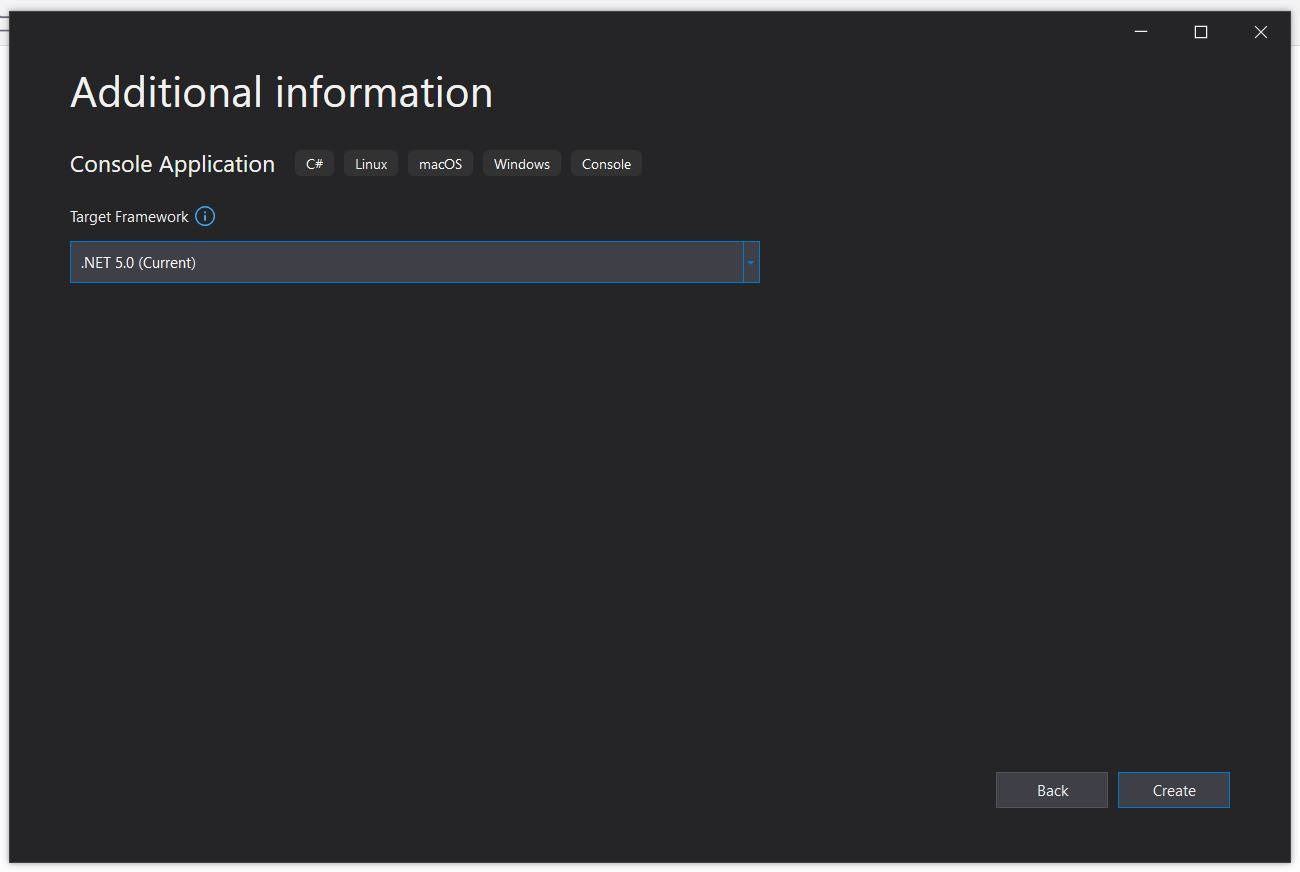
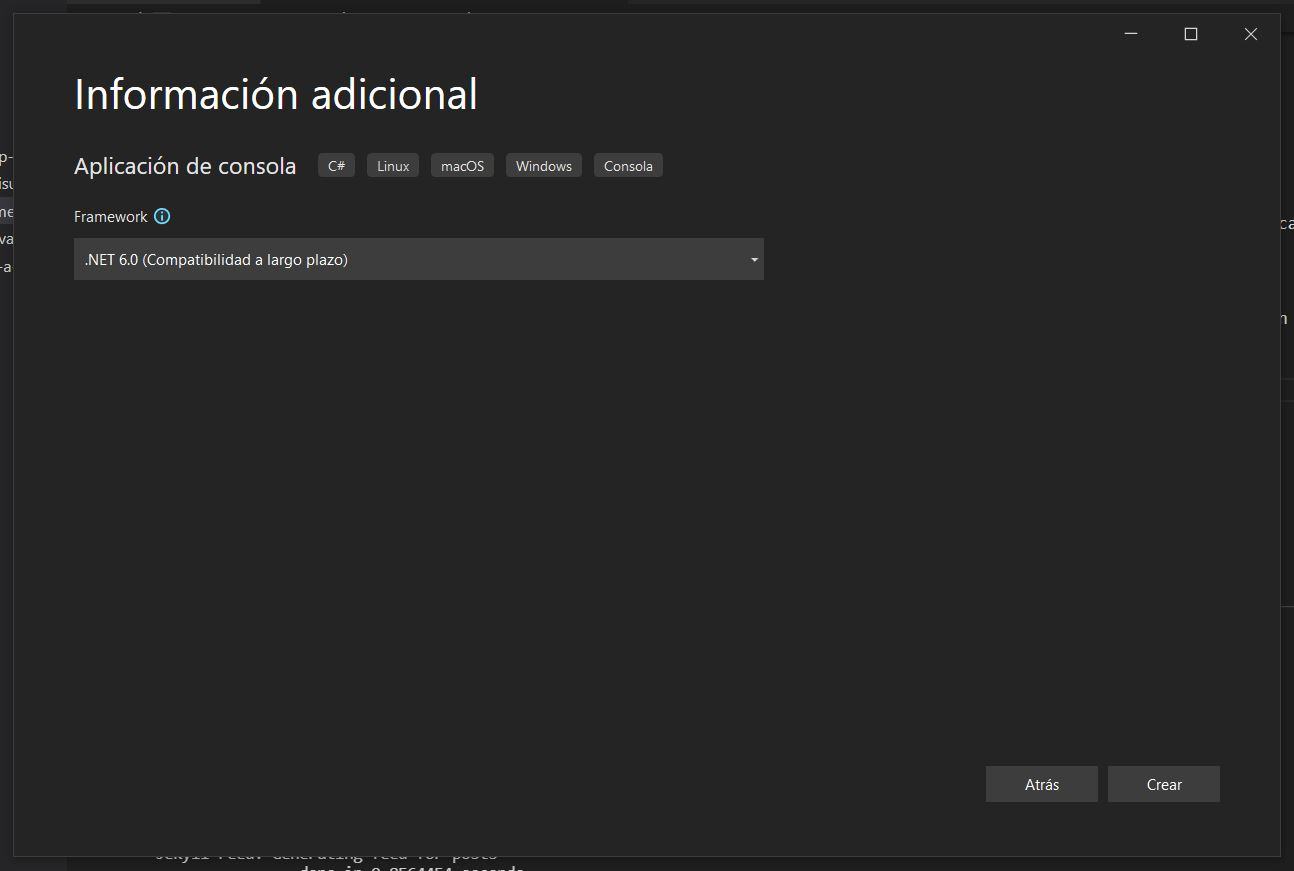
updated some articles

Changed region(s): [[0.0, 0.0, 1.0, 1.0], [0.7728, 0.868, 0.9583, 0.93]]

diff --git a/_posts/2021-06-21-4-aprender-a-saludar.md b/_posts/2021-06-21-4-aprender-a-saludar.md
@@ -10,16 +10,15 @@ Ahora, partiendo del programa que creamos en la **lección 2**, aprenderemos a s
 Este es nuestro código actual.
 
 <iframe
-  src="https://carbon.now.sh/embed?bg=rgba%28171%2C+184%2C+195%2C+1%29&t=seti&wt=none&l=text%2Fx-csharp&ds=true&dsyoff=20px&dsblur=68px&wc=true&wa=true&pv=56px&ph=56px&ln=true&fl=1&fm=Hack&fs=14px&lh=133%25&si=false&es=2x&wm=false&code=class%2520Program%250A%257B%250A%2520%2520%2520%2520static%2520void%2520Main%28string%255B%255D%2520args%29%250A%2520%2520%2520%2520%257B%250A%2520%2520%2520%2520%2520%2520%2520%2520Console.WriteLine%28%2522Hello%2520World%21%2522%29%253B%250A%2520%2520%2520%2520%257D%250A%257D"
-  style="width: 533px; height: 315px; border:0; transform: scale(1); overflow:hidden;"
+  src="https://carbon.now.sh/embed?bg=rgba%28171%2C+184%2C+195%2C+1%29&t=seti&wt=none&l=text%2Fx-csharp&width=680&ds=true&dsyoff=20px&dsblur=68px&wc=true&wa=true&pv=56px&ph=56px&ln=true&fl=1&fm=Hack&fs=14px&lh=133%25&si=false&es=2x&wm=false&code=Console.WriteLine%28%2522Hello%2520World%21%2522%29%253B"
+  style="width: 100%; height: 191px; border:0; transform: scale(1); overflow:hidden;"
   sandbox="allow-scripts allow-same-origin">
 </iframe>
 
 Ahora, modifiquemos el código para que nos salude:
-
 <iframe
-  src="https://carbon.now.sh/embed?bg=rgba%28171%2C+184%2C+195%2C+1%29&t=seti&wt=none&l=text%2Fx-csharp&ds=true&dsyoff=20px&dsblur=68px&wc=true&wa=true&pv=56px&ph=56px&ln=true&fl=1&fm=Hack&fs=14px&lh=133%25&si=false&es=2x&wm=false&code=class%2520Program%250A%257B%250A%2520%2520%2520%2520static%2520void%2520Main%28string%255B%255D%2520args%29%250A%2520%2520%2520%2520%257B%250A%2520%2520%2520%2520%2520%2520%2520%2520Console.WriteLine%28%2522Hello%2520Frank%21%2522%29%253B%250A%2520%2520%2520%2520%257D%250A%257D"
-  style="width: 533px; height: 315px; border:0; transform: scale(1); overflow:hidden;"
+  src="https://carbon.now.sh/embed?bg=rgba%28171%2C+184%2C+195%2C+1%29&t=seti&wt=none&l=text%2Fx-csharp&width=680&ds=true&dsyoff=20px&dsblur=68px&wc=true&wa=true&pv=56px&ph=56px&ln=true&fl=1&fm=Hack&fs=14px&lh=133%25&si=false&es=2x&wm=false&code=Console.WriteLine%28%2522Hello%2520Frank%21%2522%29%253B"
+  style="width: 100%; height: 191px; border:0; transform: scale(1); overflow:hidden;"
   sandbox="allow-scripts allow-same-origin">
 </iframe>
 
@@ -29,8 +28,8 @@ Para solucionar este problema, aprenderemos a **pedir datos al usuario**, y **gu
 Veamos cómo hacerlo:
 
 <iframe
-  src="https://carbon.now.sh/embed?bg=rgba%28171%2C+184%2C+195%2C+1%29&t=seti&wt=none&l=text%2Fx-csharp&ds=true&dsyoff=20px&dsblur=68px&wc=true&wa=true&pv=56px&ph=56px&ln=true&fl=1&fm=Hack&fs=14px&lh=133%25&si=false&es=2x&wm=false&code=class%2520Program%250A%257B%250A%2520%2520%2520%2520static%2520void%2520Main%28string%255B%255D%2520args%29%250A%2520%2520%2520%2520%257B%250A%2520%2520%2520%2520%2520%2520%2520%2520Console.WriteLine%28%2522Write%2520your%2520name%253A%2522%29%253B%250A%2509%2509string%2520name%2520%253D%2520Console.ReadLine%28%29%253B%250A%250A%2509%2509Console.WriteLine%28%2522Hello%2520%2522%2520%252B%2520name%29%253B%250A%2520%2520%2520%2520%257D%250A%257D"
-  style="width: 567px; height: 370px; border:0; transform: scale(1); overflow:hidden;"
+  src="https://carbon.now.sh/embed?bg=rgba%28171%2C+184%2C+195%2C+1%29&t=seti&wt=none&l=text%2Fx-csharp&width=680&ds=true&dsyoff=20px&dsblur=68px&wc=true&wa=true&pv=56px&ph=56px&ln=true&fl=1&fm=Hack&fs=14px&lh=133%25&si=false&es=2x&wm=false&code=Console.WriteLine%28%2522Write%2520your%2520name%253A%2522%29%253B%250Astring%2520name%2520%253D%2520Console.ReadLine%28%29%253B%250A%250AConsole.WriteLine%28%2522Hello%2520%2522%2520%252B%2520name%29%253B"
+  style="width: 100%; height: 246px; border:0; transform: scale(1); overflow:hidden;"
   sandbox="allow-scripts allow-same-origin">
 </iframe>
 

diff --git a/_posts/2021-06-21-2-crear-primer-proyecto.md b/_posts/2021-06-21-2-crear-primer-proyecto.md
@@ -20,7 +20,9 @@ Seleccionaremos la **ruta** donde se va a guardar la solución, y por último, e
 
 ![SolutionNaming](/assets/images/2_MyFirstProject/3.JPG)
 
-Al dar clic en siguiente, si tenemos instalado .NET 5, y la opción de seleccionar la versión, aparecerá una ventana donde podremos seleccionar la versión de .NET a usar. En mi caso usaré .NET 5.
+Al dar clic en siguiente, aparecerá la versión de .NET a usar, usaremos la opción recomendada al crear el proyecto. En mi caso, seleccionaré la versión 6.
+
+.NET es un framework que nos ayudará a desarrollar nuestros diferentes proyectos.
 
 ![SolutionNaming](/assets/images/2_MyFirstProject/4.JPG)
 
@@ -30,25 +32,11 @@ En el explorador de soluciones, veremos la solución, el proyecto y la clase bas
 
 ![SolutionNaming](/assets/images/2_MyFirstProject/5.JPG)
 
-Analicemos la clase creada
+Analicemos el código creado
 
 ![SolutionNaming](/assets/images/2_MyFirstProject/6.JPG)
 
-- En la **línea 5**, veremos la **definición de la clase**, cuyo nombre es "Program".
-    - Después analizaremos a fondo, lo que es una clase.
-- En las **líneas 6 y 11** veremos un par de llaves. Todo el contenido de la clase, debe estar dentro de estas llaves
-    - Si escribimos código fuera de estas llaves, el código no pertenecerá a esta clase.
-- En la **línea 7**, veremos la **declaración del método** de entrada.
-    - Este método se ejecutará **automáticamente**, al ejecutar el programa.
-    - Los métodos de entrada, tienen el nombre **Main**, y son estáticos por convención.
-    - **static**: indica que el método es estático (lo que significa que no debe existir una instancia de la clase, para usar el método).
-        - Después veremos qué es una instancia.
-    - **void**: indica que el método **no retornará ningún valor** (Más adelante, veremos métodos que devuelven valores).
-    - **Main** es el nombre del método.
-    - **Dentro** de los paréntesis veremos los **parámetros** recibidos (no usaremos estos aún. Los veremos más a fondo después).
-        - **string[]** es el **tipo** de parámetro.
-        - **args** es el **nombre** del parámetro.
-- En la línea 9, veremos la instrucción ejecutada.
+- En la línea 2, veremos la instrucción ejecutada.
     - **Console**: es una clase que nos permite **interactuar con la consola**.
     - **WriteLine**: es un método que nos permite **escribir en la consola**.
     - **"Hello World"** es el **valor** que estamos escribiendo en la consola.
